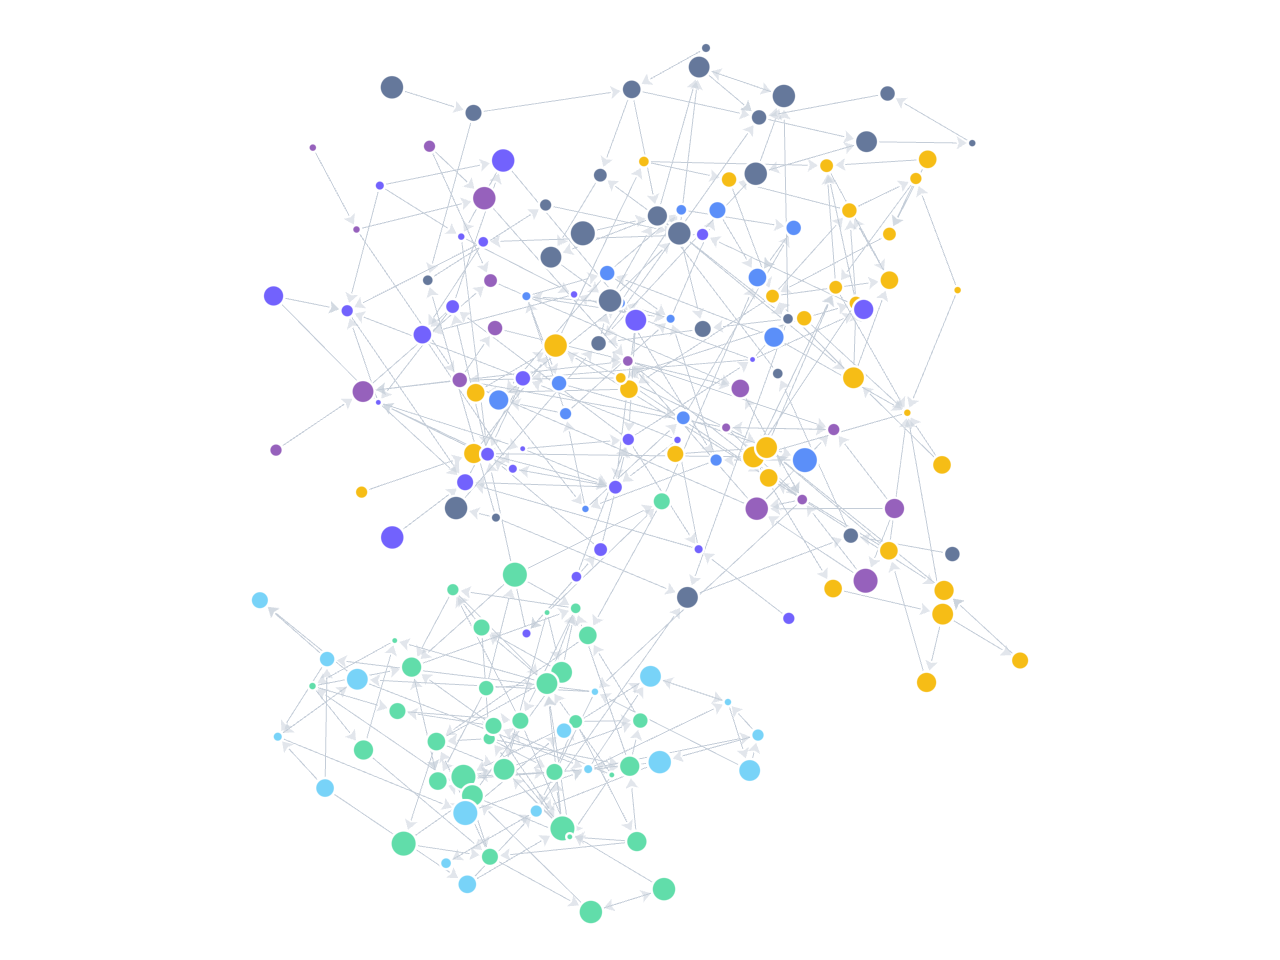
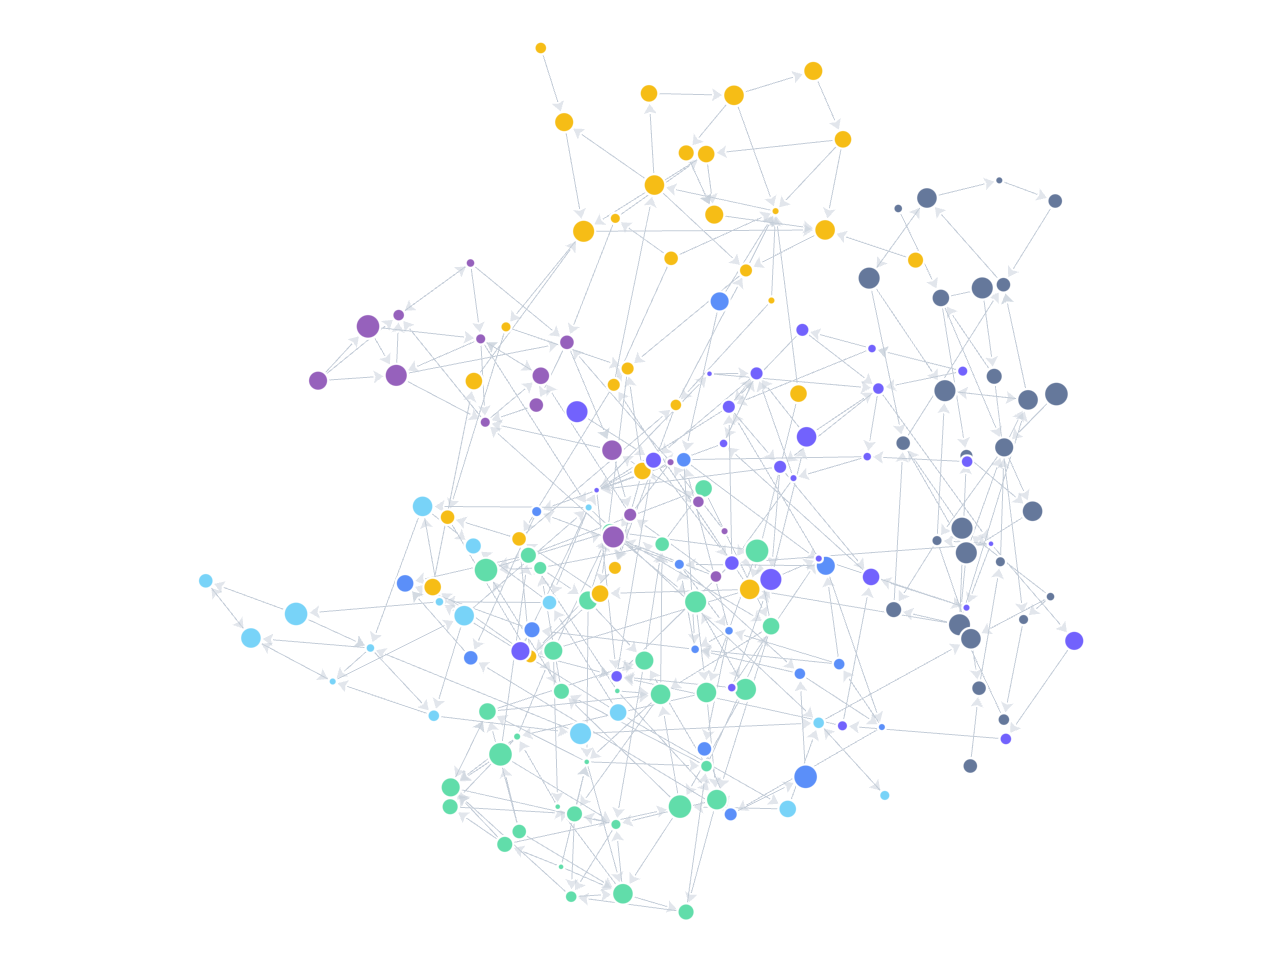
chore(website): refresh layout thumbnails

diff --git a/playground/capture.ts b/playground/capture.ts
@@ -5,6 +5,8 @@
  * 逐节点的颜色/大小写入 node.data(color/size),由 node.style 的回调函数读取。
  */
 
+import { attachLabelsCanvas, type GraphInstanceWithTools } from './tooling.ts';
+
 // 截图必须保留绘制缓冲,否则跨次导航 playwright 截到的是上一帧/空白帧。
 // ES import 会被提升,所以在补丁后用动态 import 引入 Graph。
 const _getContext = HTMLCanvasElement.prototype.getContext;
@@ -15,9 +17,9 @@ HTMLCanvasElement.prototype.getContext = function (this: HTMLCanvasElement, kind
   return _getContext.call(this, kind, attrs);
 } as typeof HTMLCanvasElement.prototype.getContext;
 
-type Node = { id: string; data: { color: string; size: number } };
+type Node = { id: string; name?: string; data: Record<string, unknown> & { color?: string; size?: number } };
 type Edge = { source: string; target: string };
-type Cfg = { layout: Record<string, unknown>; data: { nodes: Node[]; edges: Edge[] } };
+type Cfg = { layout: Record<string, unknown>; data: { nodes: Node[]; edges: Edge[] }; kind?: 'relationship' | 'fishbone' };
 
 // AntV 分类色板(10 色),用于社群着色,让缩略图饱满有层次。
 const PALETTE = [
@@ -124,6 +126,74 @@ function treeGraph(opts: { branching: number; depth: number; seed: number }) {
   return { nodes, edges };
 }
 
+const FISHBONE_COLORS = ['#ff6b4a', '#3578ff', '#19b982', '#f3a400', '#8b5cf6', '#52657f'];
+const FISHBONE_LEVELS = {
+  HEAD: 'head',
+  CATEGORY: 'category',
+  ITEM: 'item',
+};
+
+function fishboneGraph() {
+  const nodes: Node[] = [
+    { id: 'head', name: '增长受阻', data: { level: FISHBONE_LEVELS.HEAD } },
+    { id: 'cat0', name: '获客', data: { level: FISHBONE_LEVELS.CATEGORY, categoryIndex: 0 } },
+    { id: 'cat1', name: '产品', data: { level: FISHBONE_LEVELS.CATEGORY, categoryIndex: 1 } },
+    { id: 'cat2', name: '转化', data: { level: FISHBONE_LEVELS.CATEGORY, categoryIndex: 2 } },
+    { id: 'cat3', name: '运营', data: { level: FISHBONE_LEVELS.CATEGORY, categoryIndex: 3 } },
+    { id: 'cat4', name: '渠道', data: { level: FISHBONE_LEVELS.CATEGORY, categoryIndex: 4 } },
+    { id: 'cat5', name: '数据', data: { level: FISHBONE_LEVELS.CATEGORY, categoryIndex: 5 } },
+    { id: 'cat0-item0', name: '线索质量低', data: { level: FISHBONE_LEVELS.ITEM, categoryIndex: 0 } },
+    { id: 'cat0-item1', name: '触达不足', data: { level: FISHBONE_LEVELS.ITEM, categoryIndex: 0 } },
+    { id: 'cat0-item2', name: '投放分散', data: { level: FISHBONE_LEVELS.ITEM, categoryIndex: 0 } },
+    { id: 'cat1-item0', name: '路径过长', data: { level: FISHBONE_LEVELS.ITEM, categoryIndex: 1 } },
+    { id: 'cat1-item1', name: '反馈滞后', data: { level: FISHBONE_LEVELS.ITEM, categoryIndex: 1 } },
+    { id: 'cat2-item0', name: '定价不清', data: { level: FISHBONE_LEVELS.ITEM, categoryIndex: 2 } },
+    { id: 'cat2-item1', name: '信任不足', data: { level: FISHBONE_LEVELS.ITEM, categoryIndex: 2 } },
+    { id: 'cat2-item2', name: '试用门槛高', data: { level: FISHBONE_LEVELS.ITEM, categoryIndex: 2 } },
+    { id: 'cat3-item0', name: '节奏不稳', data: { level: FISHBONE_LEVELS.ITEM, categoryIndex: 3 } },
+    { id: 'cat3-item1', name: '素材复用弱', data: { level: FISHBONE_LEVELS.ITEM, categoryIndex: 3 } },
+    { id: 'cat4-item0', name: '结构单一', data: { level: FISHBONE_LEVELS.ITEM, categoryIndex: 4 } },
+    { id: 'cat4-item1', name: '成本上升', data: { level: FISHBONE_LEVELS.ITEM, categoryIndex: 4 } },
+    { id: 'cat5-item0', name: '归因缺失', data: { level: FISHBONE_LEVELS.ITEM, categoryIndex: 5 } },
+  ];
+
+  const edges: Edge[] = [
+    { source: 'head', target: 'cat0' },
+    { source: 'head', target: 'cat1' },
+    { source: 'head', target: 'cat2' },
+    { source: 'head', target: 'cat3' },
+    { source: 'head', target: 'cat4' },
+    { source: 'head', target: 'cat5' },
+    { source: 'cat0', target: 'cat0-item0' },
+    { source: 'cat0', target: 'cat0-item1' },
+    { source: 'cat0', target: 'cat0-item2' },
+    { source: 'cat1', target: 'cat1-item0' },
+    { source: 'cat1', target: 'cat1-item1' },
+    { source: 'cat2', target: 'cat2-item0' },
+    { source: 'cat2', target: 'cat2-item1' },
+    { source: 'cat2', target: 'cat2-item2' },
+    { source: 'cat3', target: 'cat3-item0' },
+    { source: 'cat3', target: 'cat3-item1' },
+    { source: 'cat4', target: 'cat4-item0' },
+    { source: 'cat4', target: 'cat4-item1' },
+    { source: 'cat5', target: 'cat5-item0' },
+  ];
+
+  return { nodes, edges };
+}
+
+function fishboneNodeSize(node: Node) {
+  const level = node.data.level as string;
+  if (level === FISHBONE_LEVELS.HEAD) return { width: 132, height: 46 };
+  if (level === FISHBONE_LEVELS.CATEGORY) return { width: 82, height: 34 };
+  return { width: Math.max(70, (node.name ?? '').length * 13 + 22), height: 26 };
+}
+
+function fishboneColor(node: Node) {
+  const categoryIndex = node.data.categoryIndex as number | undefined;
+  return categoryIndex === undefined ? FISHBONE_COLORS[0] : FISHBONE_COLORS[categoryIndex % FISHBONE_COLORS.length];
+}
+
 const CONFIGS: Record<string, Cfg> = {
   // 力导向:7 社群约 180 节点,自然聚类,最能体现"大规模图"的饱满感
   force: { layout: { type: 'd3-force', linkDistance: 40, nodeStrength: -30 }, data: communityGraph({ clusters: 7, perCluster: 26, seed: 7 }) },
@@ -137,6 +207,12 @@ const CONFIGS: Record<string, Cfg> = {
   grid: { layout: { type: 'grid', rows: 6, cols: 10 }, data: ringGraph({ count: 60, seed: 9 }) },
   // 脑图:横向分叉树
   mindmap: { layout: { type: 'mindmap', direction: 'H', levelGap: 60, nodeGap: 12 }, data: treeGraph({ branching: 2.6, depth: 3, seed: 2 }) },
+  // 鱼骨图:定制业务图布局,单独使用鱼骨数据结构与路由
+  fishbone: {
+    kind: 'fishbone',
+    layout: { type: 'fishbone', direction: 'LR', categoryGap: 150, itemGap: 40, itemHStep: 44, categoryDistance: 150 },
+    data: fishboneGraph(),
+  },
 };
 
 async function main() {
@@ -144,9 +220,60 @@ async function main() {
   const [type, fallback] = window.location.hash.slice(1).split('|');
   const cfg = CONFIGS[type] ?? CONFIGS.force;
   const accent = fallback ? `#${fallback}` : '#5B8FF9';
+  const stage = document.querySelector('#stage') as HTMLElement;
+  stage.style.position = 'relative';
+
+  if (cfg.kind === 'fishbone') {
+    const fishboneNodeById = new Map(cfg.data.nodes.map((node) => [node.id, node]));
+    const graph = new Graph({
+      container: stage,
+      data: cfg.data,
+      node: {
+        type: 'rect',
+        style: (node: Node) => {
+          const level = node.data.level as string;
+          const size = fishboneNodeSize(node);
+          if (level === FISHBONE_LEVELS.ITEM) {
+            return { fill: 'transparent', width: size.width, height: size.height, borderRadius: 0, stroke: 'transparent', strokeWidth: 0 };
+          }
+          return { fill: fishboneColor(node), width: size.width, height: size.height, borderRadius: 8, stroke: 'transparent', strokeWidth: 0 };
+        },
+      },
+      edge: {
+        type: 'polyline',
+        style: (edge: Edge) => {
+          const target = cfg.data.nodes.find((node) => node.id === edge.target);
+          const stroke = target ? fishboneColor(target) : '#b8c4d6';
+          return { stroke, opacity: 0.72, lineWidth: 1.8, router: 'fishbone', endArrow: false, startArrow: false };
+        },
+      },
+      layout: cfg.layout,
+      theme: 'light',
+    });
+    await graph.render();
+    await new Promise((r) => requestAnimationFrame(() => r(null)));
+    graph.fitView(0.68);
+    graph.scheduleRender();
+    attachLabelsCanvas(stage, graph as unknown as GraphInstanceWithTools, {
+      nodeLabel: (node) => fishboneNodeById.get(node.id)?.name ?? node.id,
+      position: (node) => ((fishboneNodeById.get(node.id)?.data.level as string) === FISHBONE_LEVELS.ITEM ? 'right-edge' : 'inside'),
+      nodeSize: (node) => fishboneNodeSize(fishboneNodeById.get(node.id) ?? (node as Node)),
+      fontSize: (node) => {
+        const level = fishboneNodeById.get(node.id)?.data.level as string;
+        if (level === FISHBONE_LEVELS.HEAD) return 15;
+        if (level === FISHBONE_LEVELS.CATEGORY) return 13;
+        return 11;
+      },
+      color: (node) => ((fishboneNodeById.get(node.id)?.data.level as string) === FISHBONE_LEVELS.ITEM ? '#263142' : '#ffffff'),
+    });
+    await new Promise((r) => requestAnimationFrame(() => r(null)));
+    await new Promise((r) => requestAnimationFrame(() => r(null)));
+    (window as unknown as { __ready: boolean }).__ready = true;
+    return;
+  }
 
   const graph = new Graph({
-    container: '#stage',
+    container: stage,
     data: cfg.data,
     // 逐节点颜色/大小从 data 读取(回调),整体描边白色,做出"卡片化"清爽感
     node: {

diff --git a/openspec/changes/changelog-website-banner-layout-cases-2026-06-29.md b/openspec/changes/changelog-website-banner-layout-cases-2026-06-29.md
@@ -1,0 +1,26 @@
+# 官网 Banner 与布局案例展示优化变更记录
+
+> 日期：2026-06-29
+> 类型：官网视觉优化
+
+## 变更内容
+
+- 优化首页 Banner 右侧演示卡，改为更融合背景的实时图画布展示，并补充关系图 / 定制图能力提示。
+- 将布局案例区拆分为“基础关系图布局”和“定制图布局”两组，分别展示通用关系网络布局与脑图、鱼骨图等定制布局。
+- 新增 `fishbone.png` 真实渲染缩略图，并把截图生成脚本纳入 fishbone 布局。
+- 将首屏布局案例改为横向可滚动案例带，参考 AntV Infographic 官网的大色块案例展示方式。
+- 将布局文案统一调整为“基础布局”和“定制布局”，并明确当前定制布局只是脑图、鱼骨图等示例，不代表能力上限。
+- 提升首屏案例卡片配色饱和度，同时继续移除不必要边框和多余阴影。
+- 修复鱼骨图缩略图误用普通树图数据的问题，改为使用鱼骨结构、矩形节点、分类色和 fishbone polyline 路由。
+- 对布局缩略图应用混合显示效果，让原始截图白底与卡片底色融合，降低突兀感。
+- 修复移动端布局案例横向滚动内容撑宽容器的问题。
+
+## 变更原因
+
+用户反馈 Banner 右侧展示和布局案例区需要进一步优化；布局能力应区分通用关系图布局和定制业务图布局，同时截图不应出现明显白色底块，应与背景色融合。
+
+## 影响
+
+- 影响范围集中在官网首页、布局缩略图资产和截图生成配置。
+- 不涉及核心库运行时代码。
+- 已通过桌面与移动端截图检查，无非预期横向溢出。
